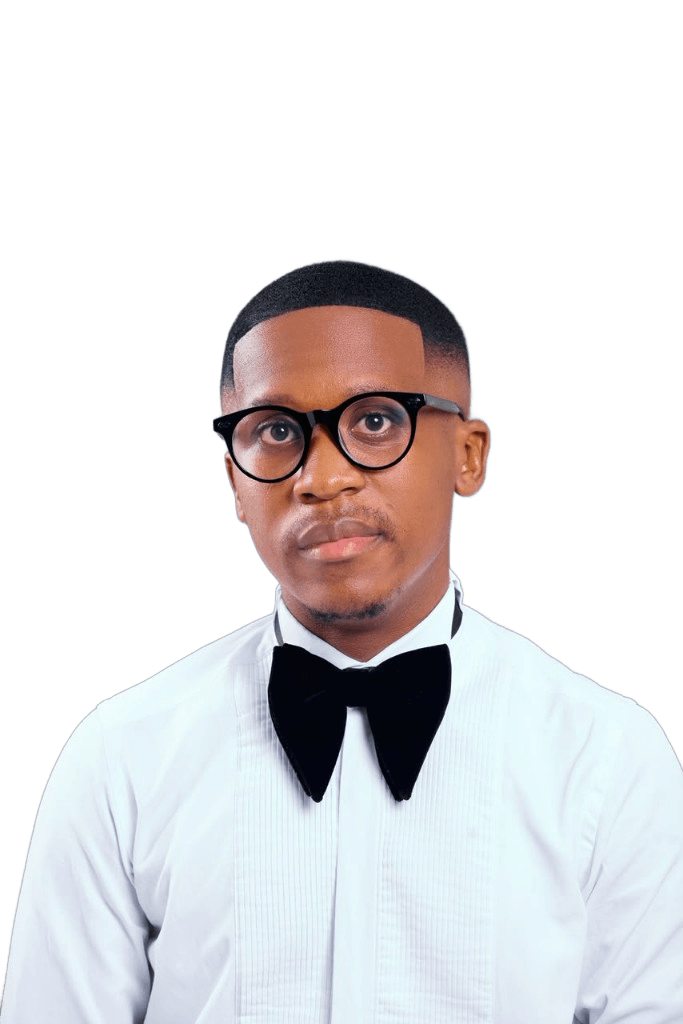
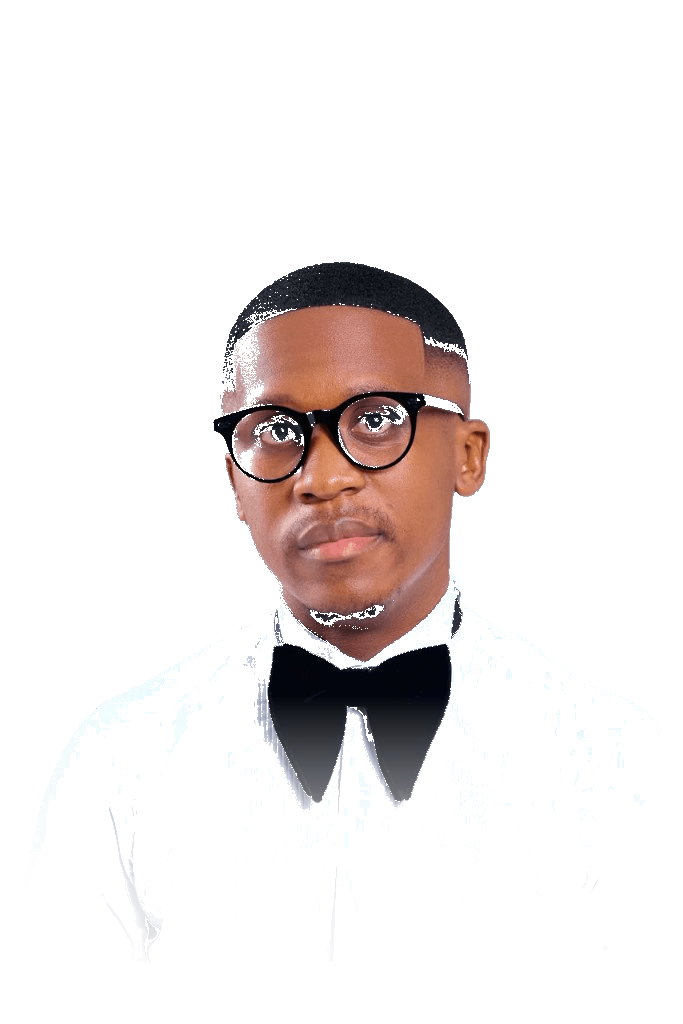
Rise-from-below About entrance; scrub cutout box edges.

diff --git a/src/App.css b/src/App.css
@@ -850,51 +850,34 @@
   width: 100%;
   height: 100%;
   display: grid;
-  place-items: center;
-  transform-origin: 50% 85%;
+  place-items: center;
   will-change: transform, filter, opacity;
 }
 
 .about__photo {
-  width: 88%;
+  width: 90%;
   height: auto;
-  max-height: 92%;
+  max-height: 94%;
   object-fit: contain;
   object-position: center bottom;
   display: block;
-  background: transparent;
-  border: 0;
-  border-radius: 0;
-  outline: none;
-  box-shadow: none;
-  /* Soft floating silhouette — no rectangular box edges */
+  background: transparent !important;
+  border: 0 !important;
+  border-radius: 0 !important;
+  outline: none !important;
+  box-shadow: none !important;
   -webkit-mask-image:
-    linear-gradient(to right, transparent 0%, #000 10%, #000 90%, transparent 100%),
-    linear-gradient(
-      to bottom,
-      #000 0%,
-      #000 50%,
-      rgba(0, 0, 0, 0.85) 66%,
-      rgba(0, 0, 0, 0.4) 80%,
-      transparent 100%
-    );
+    radial-gradient(ellipse 72% 78% at 50% 42%, #000 42%, rgba(0, 0, 0, 0.85) 58%, rgba(0, 0, 0, 0.35) 72%, transparent 86%),
+    linear-gradient(to bottom, #000 0%, #000 55%, rgba(0, 0, 0, 0.55) 75%, transparent 100%);
   mask-image:
-    linear-gradient(to right, transparent 0%, #000 10%, #000 90%, transparent 100%),
-    linear-gradient(
-      to bottom,
-      #000 0%,
-      #000 50%,
-      rgba(0, 0, 0, 0.85) 66%,
-      rgba(0, 0, 0, 0.4) 80%,
-      transparent 100%
-    );
+    radial-gradient(ellipse 72% 78% at 50% 42%, #000 42%, rgba(0, 0, 0, 0.85) 58%, rgba(0, 0, 0, 0.35) 72%, transparent 86%),
+    linear-gradient(to bottom, #000 0%, #000 55%, rgba(0, 0, 0, 0.55) 75%, transparent 100%);
   -webkit-mask-composite: source-in;
   mask-composite: intersect;
   filter:
-    drop-shadow(0 0 14px rgba(255, 255, 255, 0.75))
-    drop-shadow(0 0 34px rgba(160, 190, 255, 0.85))
-    drop-shadow(0 0 70px rgba(123, 94, 167, 0.8))
-    drop-shadow(0 22px 36px rgba(0, 0, 0, 0.55));
+    drop-shadow(0 0 12px rgba(255, 255, 255, 0.7))
+    drop-shadow(0 0 32px rgba(160, 190, 255, 0.8))
+    drop-shadow(0 0 64px rgba(123, 94, 167, 0.75));
 }
 
 .about__text {

diff --git a/src/pages/About.jsx b/src/pages/About.jsx
@@ -21,27 +21,20 @@ export default function About() {
 
             <motion.div
               className="about__figure"
-              style={{ transformStyle: "preserve-3d" }}
               initial={{
                 opacity: 0,
-                y: 140,
-                scale: 0.15,
-                rotate: -720,
-                filter: "blur(18px) brightness(0.2)",
+                y: 160,
+                filter: "blur(14px) brightness(0.35)",
               }}
               animate={{
                 opacity: 1,
                 y: 0,
-                scale: 1,
-                rotate: 0,
                 filter: "blur(0px) brightness(1)",
               }}
               transition={{
-                duration: 2.4,
-                delay: 0.15,
+                duration: 1.8,
+                delay: 0.12,
                 ease: [0.16, 1, 0.3, 1],
-                opacity: { duration: 1.6, delay: 0.35 },
-                filter: { duration: 1.8, delay: 0.5 },
               }}
             >
               <img
